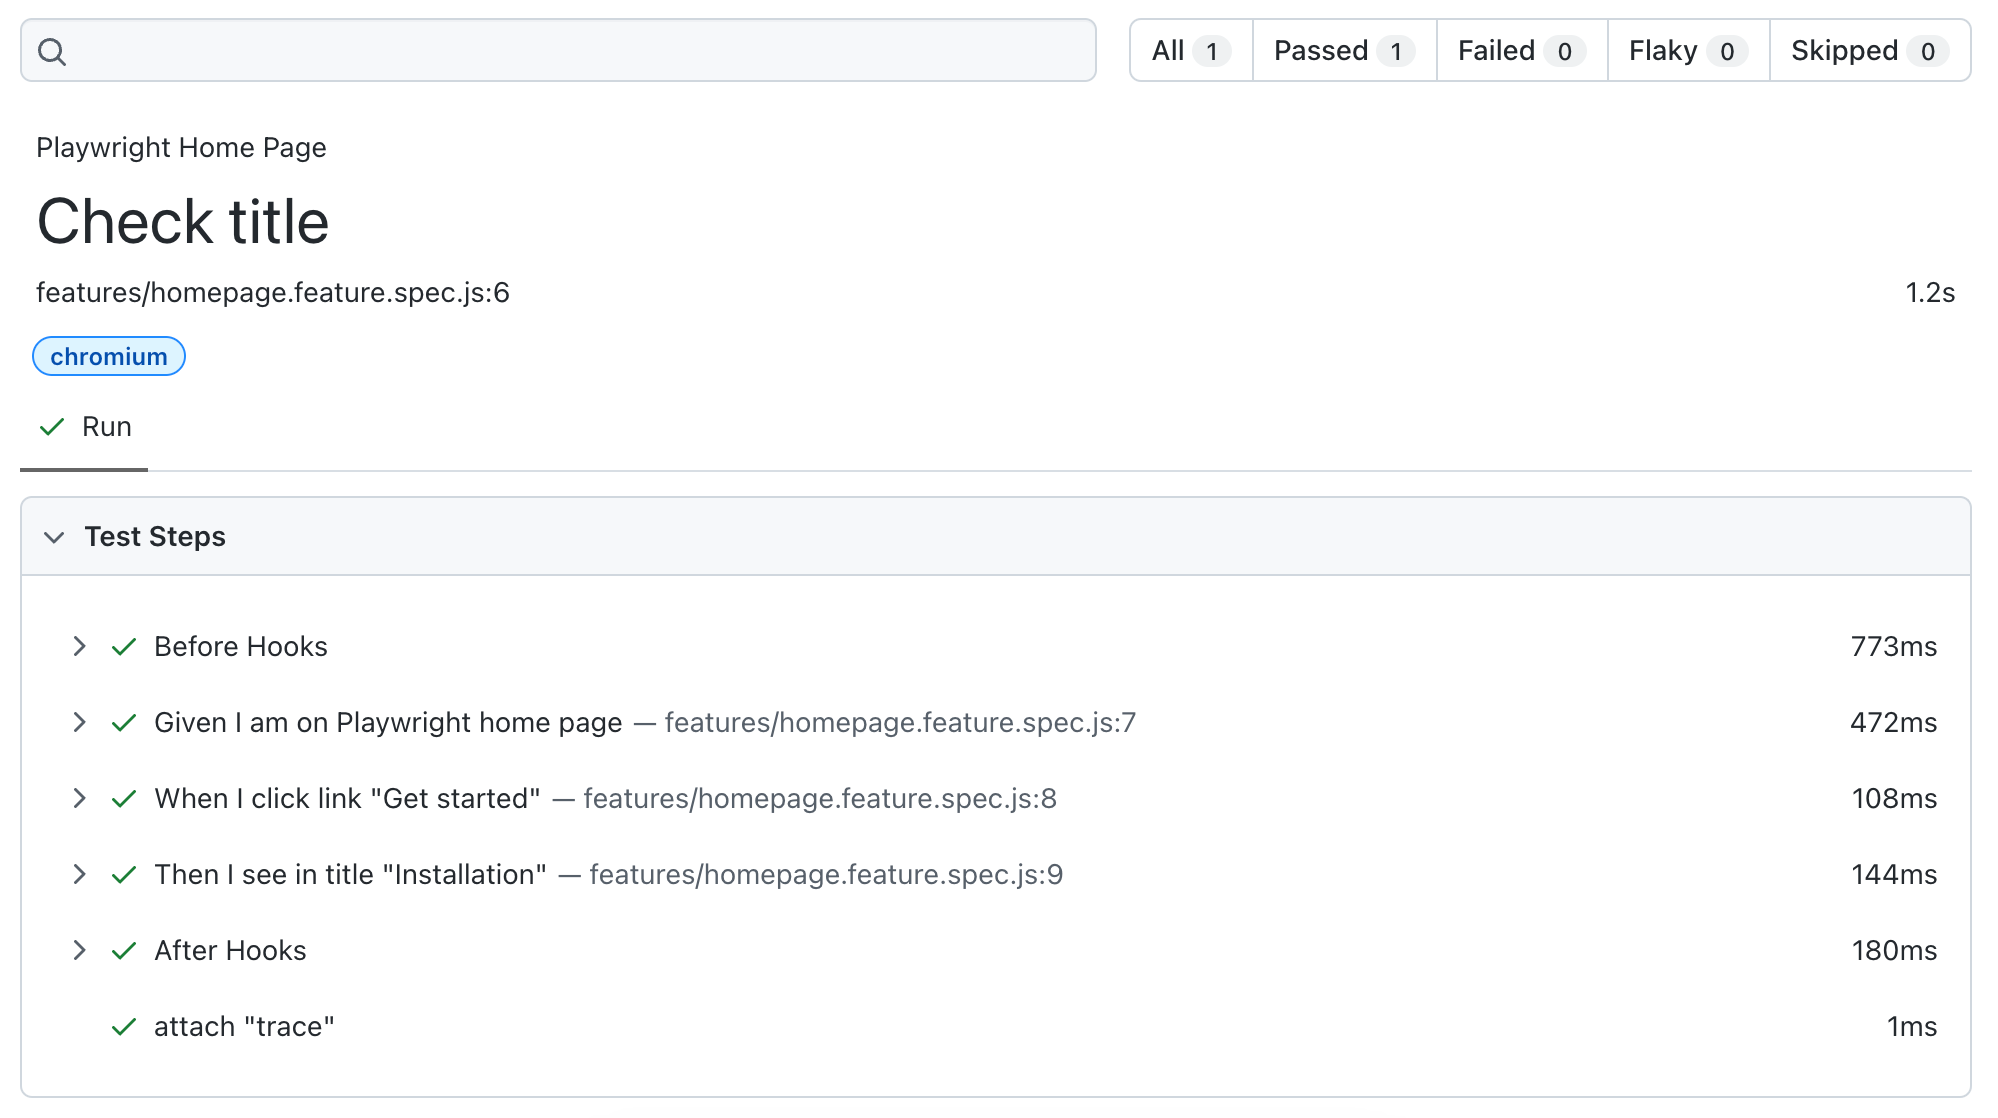
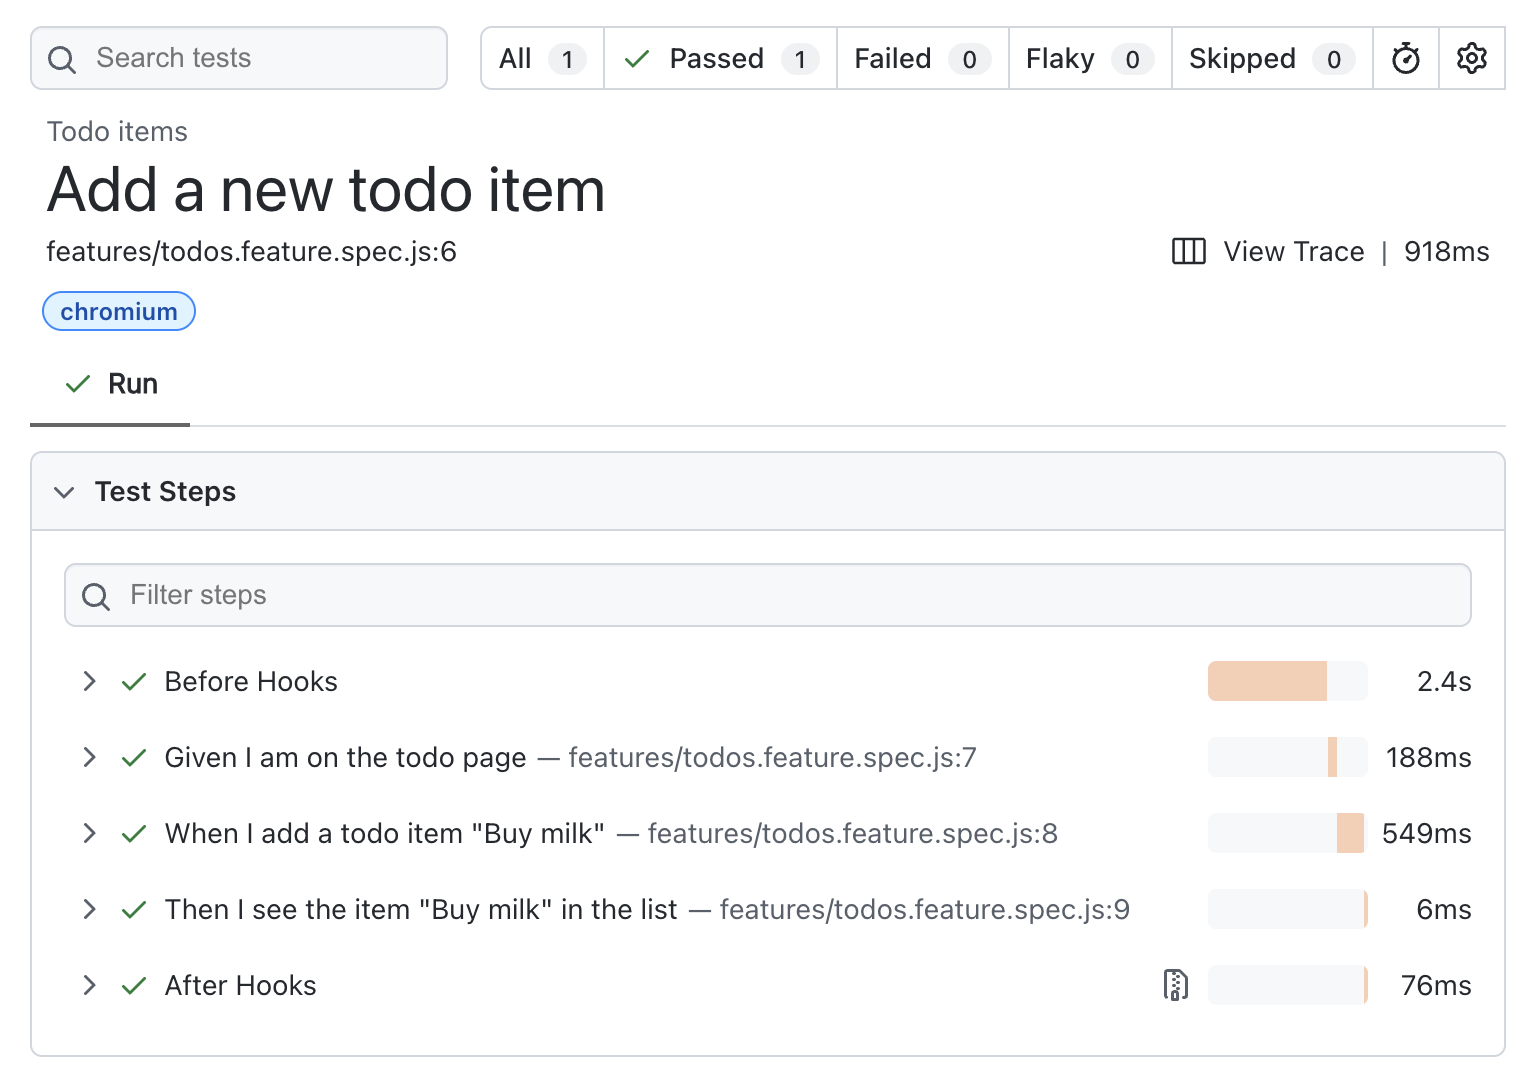
docs

diff --git a/docs/index.md b/docs/index.md
@@ -35,16 +35,18 @@ Feature: Buying a pizza
       | Quantity | 2          |
 ```
 
- In the AI era, these scenarios become valuable artifacts for agents because they are both:
+ In the AI era, these scenarios become valuable artifacts because they are both:
 
-* ✅ **Readable**: You can easily draft and refine scenarios with an agent to clearly define the behavior.
-* ✅ **Executable**: The same scenarios can be executed as automated tests to verify the implementation.
+* ✅ **Readable**: You can easily draft and refine scenarios with agents.
+* ✅ **Executable**: You can run the scenarios as automated tests to verify the implementation.
 
 Unlike plain Markdown specs, BDD does not just describe a feature; it makes the spec live and keeps it aligned with the codebase.
 
-Watch the <img src="https://cdn.simpleicons.org/youtube/FF0000" align="absmiddle" width="24" height="24" alt="YouTube"> [1-minute workflow overview](https://www.youtube.com/watch?v=hDL9j23EDNs) or read the [blog post](https://vitalets.github.io/posts/bdd-agentic-workflow/) to see agentic BDD in action. The ultimate goal: **review only feature files** and let automated guardrails check code quality and scenario compliance.
+Watch the <img src="https://cdn.simpleicons.org/youtube/FF0000" align="absmiddle" width="24" height="24" alt="YouTube"> [1-minute workflow overview](https://www.youtube.com/watch?v=hDL9j23EDNs) or read the [blog post](https://vitalets.github.io/posts/bdd-agentic-workflow/) to see agentic BDD in action.
 
 To bring this workflow to your project, [set up Playwright-BDD](https://vitalets.github.io/playwright-bdd/#/getting-started/index) and add the [playwright-bdd skill](https://vitalets.github.io/playwright-bdd/#/getting-started/agent-skill) for your AI coding agent.
+
+?> **The ultimate goal:** review only feature files and let automated guardrails check scenario compliance.
 
 ## Why Playwright Runner?
 
@@ -78,19 +80,20 @@ Step definitions have access to the Playwright APIs and can interact with browse
 
 ```js
 Given('I am on the todo page', async ({ page }) => {
-  await page.goto('https://www.todoaapp.com');
+  await page.goto('https://todoaapp.com');
 });
 
 When('I add a todo item {string}', async ({ page }, name) => {
-  await page.getByRole('button', { name }).click();
+  await page.getByRole('textbox', { name: 'New todo' }).fill(name);
+  await page.getByRole('button', { name: 'Add todo' }).click();
 });
 
 Then('I see the item {string} in the list', async ({ page }, text) => {
-  await expect(page.getByRole('button')).toHaveTitle(new RegExp(text));
+  await expect(page.getByRole('listitem')).toHaveText([ text ]);
 });  
 ```
 
-HTML report shows all scenarios and steps:
+Playwright HTML report:
 
 ![Playwright html report](reporters/_media/pw-html-report.png)
 

diff --git a/README.md b/README.md
@@ -51,13 +51,15 @@ Feature: Buying a pizza
 
 Unlike plain Markdown specs, BDD does not just describe a feature, it makes the spec live and keeps it aligned with the codebase.
 
-Watch the <img src="https://cdn.simpleicons.org/youtube/FF0000" align="absmiddle" width="24" height="24" alt="YouTube"> [1-minute workflow overview](https://www.youtube.com/watch?v=hDL9j23EDNs) or read the [blog post](https://vitalets.github.io/posts/bdd-agentic-workflow/) to see agentic BDD in action. The ultimate goal: **review only feature files** and let automated guardrails check code quality and scenario compliance.
+Watch the <img src="https://cdn.simpleicons.org/youtube/FF0000" align="absmiddle" width="24" height="24" alt="YouTube"> [1-minute workflow overview](https://www.youtube.com/watch?v=hDL9j23EDNs) or read the [blog post](https://vitalets.github.io/posts/bdd-agentic-workflow/) to see agentic BDD in action. 
 
 To bring this workflow to your project, [set up Playwright-BDD](https://vitalets.github.io/playwright-bdd/#/getting-started/index) and add the [playwright-bdd skill](https://vitalets.github.io/playwright-bdd/#/getting-started/agent-skill) for your AI coding agent.
 
+> **The ultimate goal:** review only feature files and let automated guardrails check scenario compliance.
+
 ## How It Works
 
-Playwright-BDD transforms feature files into Playwright tests and wires step implementations to make the tests runnable:
+Playwright-BDD transforms feature files into Playwright tests and wires up step implementations:
 
 <img align="center" alt="Feature file transformed into a Playwright test" src="https://raw.githubusercontent.com/vitalets/playwright-bdd/refs/heads/main/docs/_media/playwright-bdd-transformation.png"/>
 
